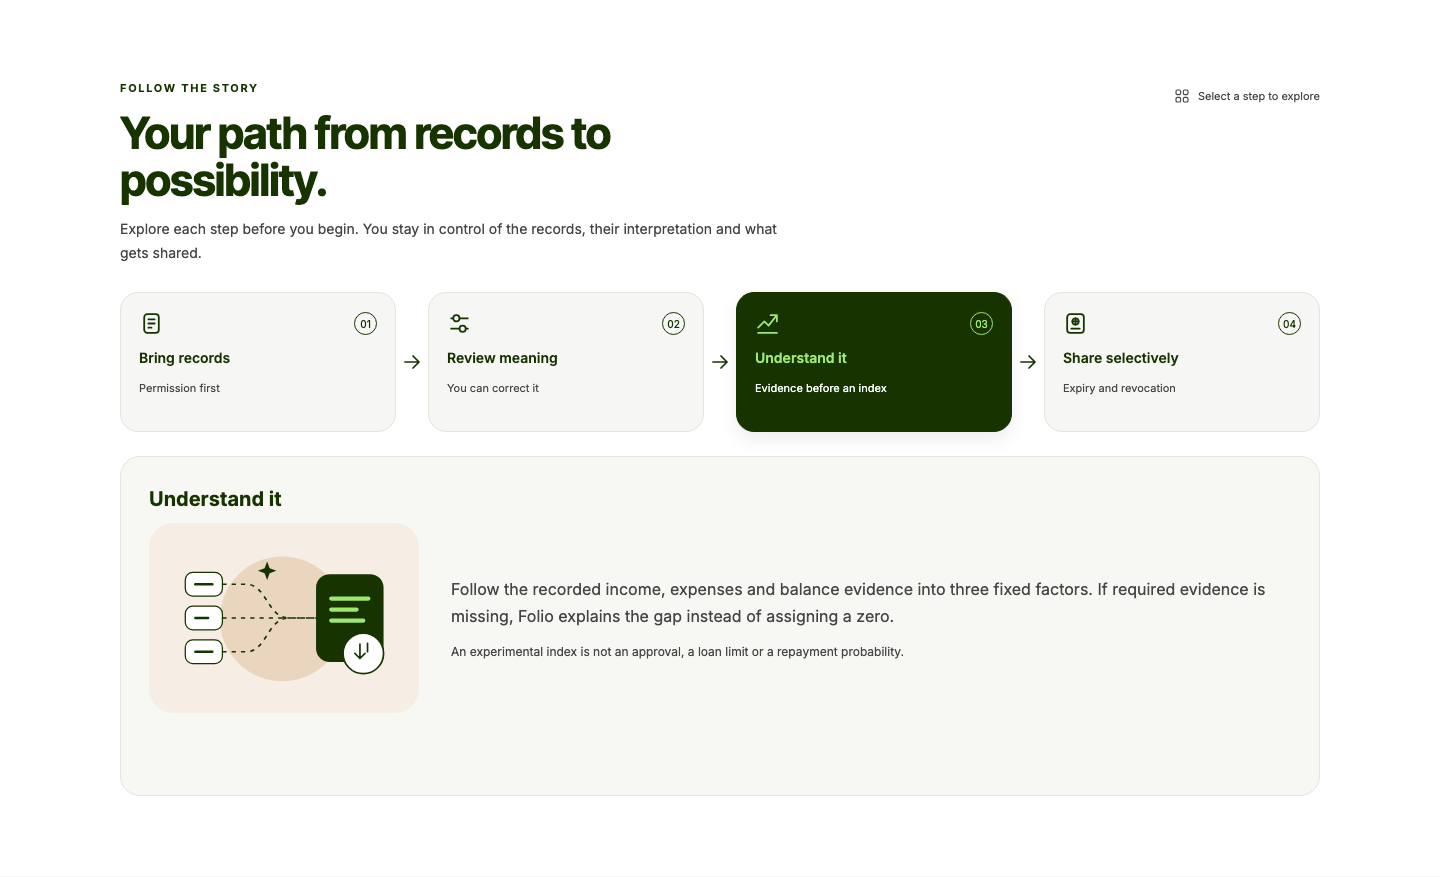
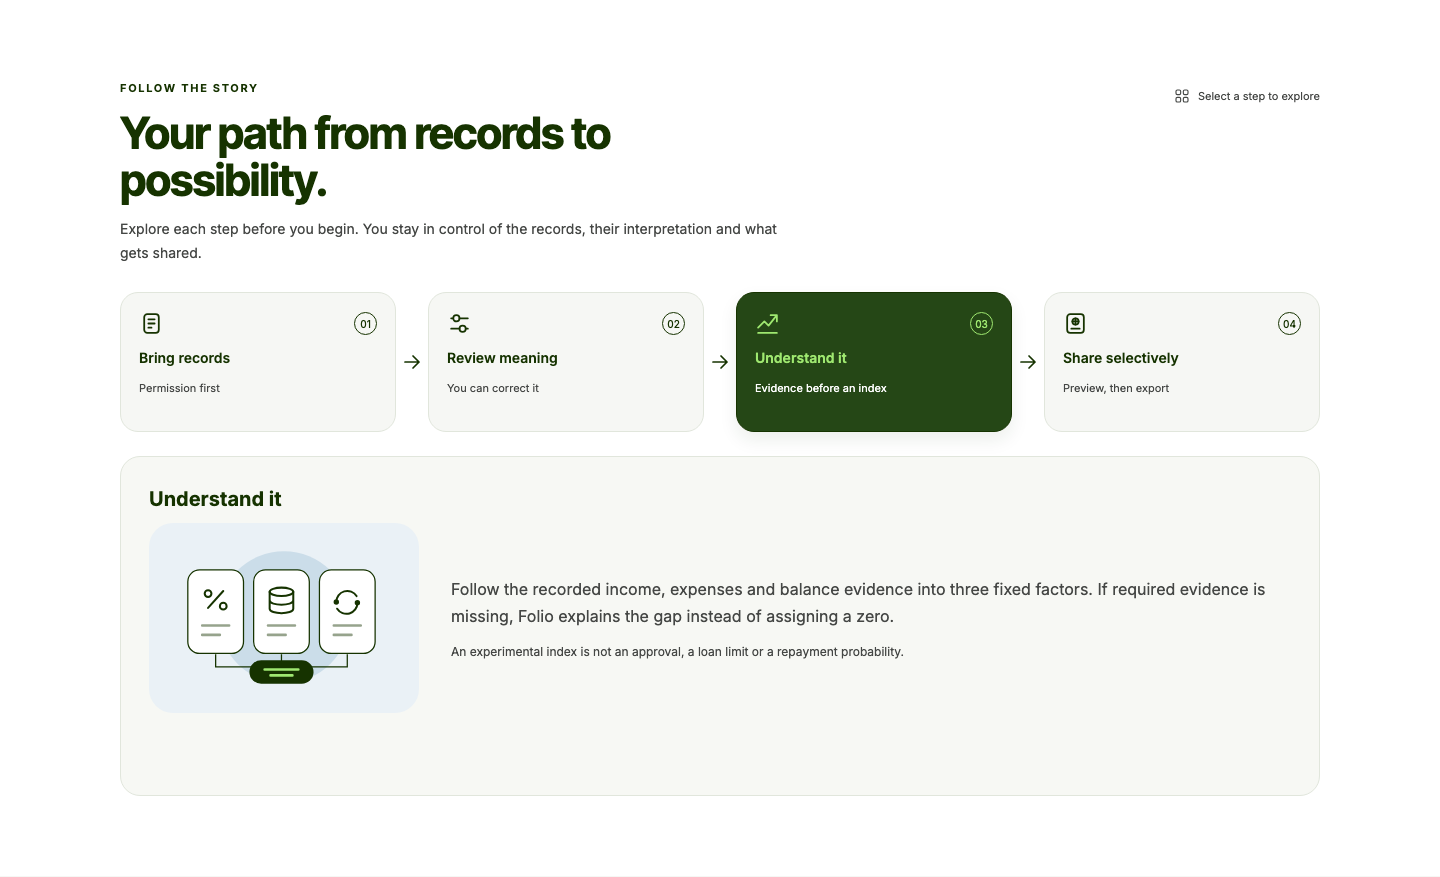
Record reviewed PDF action removal and distinct journey artwork

Changed region(s): [[0.125, 0.6157, 0.2812, 0.8005], [0.75, 0.431, 0.8125, 0.4618]]

diff --git a/docs/checkpoint-polish.md b/docs/checkpoint-polish.md
@@ -1,0 +1,13 @@
+# Passport action and journey illustration polish
+
+Source checkpoints: `5acb8bea1c30bd687eeddbcbdef4e4730e4fe749` removes public-link creation from the interface; `47b0c31c6a1a88013a92f6b2a85f2fde6ca4645a` adds distinct journey artwork and repairs historical-link error guidance. Both changes were explicitly requested by the user.
+
+The passport screen keeps disclosure choices, preview, immutable issuance and PDF downloads. Link creation, lifetime, copy and URL controls are removed. The flow and current landing copy explain PDF export. Settings preserves revocation for previously issued links. Backend permissions and existing links remain intact; regression tests seed historical links through the API.
+
+“Review meaning” now uses a clean pencil badge. “Understand it” has its own three-factor illustration and blue background. The SVGs are decorative and contain no invented financial values or verification badges. Browser coverage compares their actual SVG contents, tests keyboard/touch/reduced motion, and checks mobile overflow and axe accessibility.
+
+Checks: TypeScript, lint and production builds pass. At `5acb8be`, all 46 financial/API/database cases pass (zero skipped) and 10 affected desktop/mobile browser cases pass, including actual PDF download and preserved historical recipient/revocation boundaries. At `47b0c31`, three relevant API cases and both affected journey browser cases pass. Desktop/mobile captures were visually inspected. This is focused regression evidence, not a claim that the entire browser suite was rerun after the artwork change.
+
+Actual Claude Opus 5.5 performed read-only source reviews: [link-removal review](../reviews/5acb8bea1c30bd687eeddbcbdef4e4730e4fe749-followup.json), [artwork and repair review](../reviews/47b0c31c6a1a88013a92f6b2a85f2fde6ca4645a-followup.json). Its accepted error-message finding is fixed: unavailable historical links now ask for a passport PDF directly. Final scoped review reports no defects; Codex executed the checks.
+
+[Review artwork](images/journey-review.png) · [Assessment artwork](images/journey-assessment.png). Additional mobile captures and test logs are in ignored `output/` and `.workflow/`. Historical checkpoint documents describe the interface at their exact source commits; current instructions are the PDF-export flow above.

diff --git a/README.md b/README.md
@@ -4,7 +4,7 @@
 
 ![FOLIO borrower journey: bring records, review interpretation, understand and share](docs/images/borrower-journey.png)
 
-[Desktop assessment](docs/images/desktop-assessment.png) · [Mobile assessment](docs/images/mobile-assessment.png) · [Interactive cash-flow preview](docs/images/cashflow.png) · [Evidence flow](docs/images/evidence-explorer.png) · [Mobile flow](docs/images/mobile-evidence-explorer.png) · [Sharing flow](docs/images/sharing-explorer.png) · [Belarus demo](docs/images/belarus-assessment.png)
+[Desktop assessment](docs/images/desktop-assessment.png) · [Mobile assessment](docs/images/mobile-assessment.png) · [Interactive cash-flow preview](docs/images/cashflow.png) · [Evidence flow](docs/images/evidence-explorer.png) · [Mobile flow](docs/images/mobile-evidence-explorer.png) · [PDF export](docs/checkpoint-polish.md) · [Belarus demo](docs/images/belarus-assessment.png)
 
 Screenshots use explicitly synthetic demo records. Current demonstration markets: **United States / USD** and **Belarus / BYN**. Belarus examples use synthetic local-currency fixtures; Nessie remains a USD sandbox. See the [Belarus market checkpoint](docs/checkpoint-belarus.md) for exact amounts and verification.
 
@@ -91,3 +91,5 @@ Auth0 configuration is pending: actual two-account login/callback/logout and pri
 [Architecture](docs/architecture.md) · [assessment contract](docs/assessment.md) · [imports](docs/imports.md) · [evaluation](docs/evaluation.md) · [visual specification](docs/visual-spec.md) · [deployment](docs/deployment.md) · [credits](docs/sponsor-map.md)
 
 The current passport interface exports PDFs. At the user’s request, link creation, link lifetime and URL-copy controls have been removed. Existing issued links keep their original access checks and remain manageable in Settings. Historical checkpoint documents describe the interface at their recorded commits.
+
+Latest visual update: [distinct review and assessment illustrations, PDF-export controls and checks](docs/checkpoint-polish.md).
